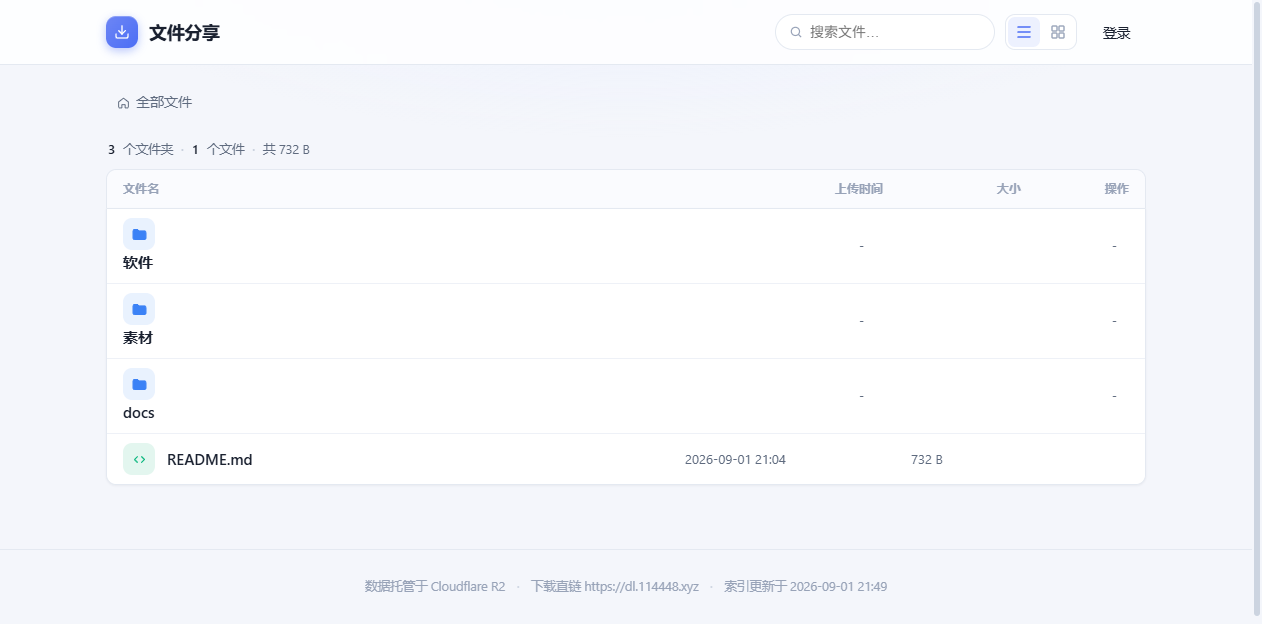
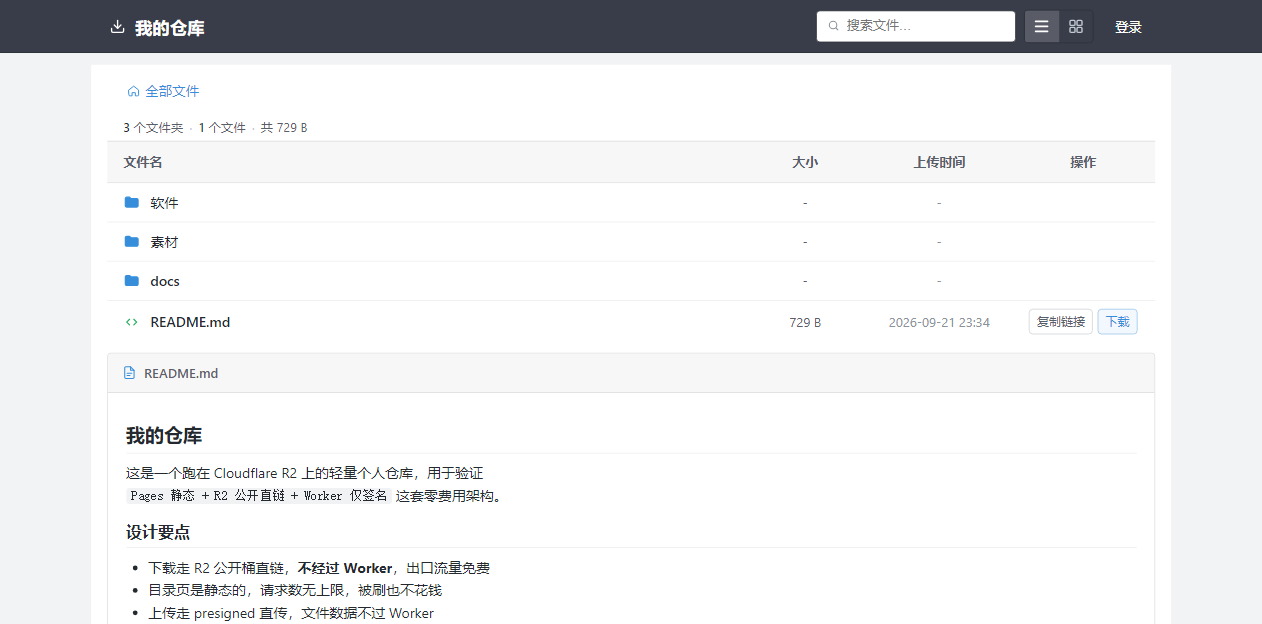
docs: 重做 5 张 README 配图（旧图与实况不符）+ 文案与计数同步
login.png 与 preview.png 原为同一张图（md5 相同）：README 声称 preview 是「README.md 预览弹层」，实际是登录后的列表视图；5 张图均为 09-01 旧 UI（白顶栏 / 「文件分享」/ 旧列序 / 旧页脚 / 3 按钮）
按当前 UI 用 Edge headless + CDP 重截，视口保持 1262 × 624
文案修正：登录后是 4 个按钮、列表视图删除按钮常显（只有网格 .cell-actions 是 hover 浮出）
测试计数同步（单元 228→263、冒烟 49→64）；README 补「无变化就别写」第三条硬约束与批大小 400 的说明

diff --git a/README.md b/README.md
@@ -11,13 +11,14 @@
 未登录列表视图（默认）：
 ![home](docs/screenshots/home.png)
 
-未登录网格视图：
+未登录网格视图（右上角切换；单元格底部操作栏 hover 时浮出）：
 ![grid](docs/screenshots/grid.png)
 
-登录后顶部多出「重建索引 / 上传 / 退出」三个按钮，文件行 hover 出现删除按钮：
+登录后顶部多出「重建索引 / 新建目录 / 上传 / 退出」四个按钮，每行出现删除按钮，
+并展开上传拖拽区（列表视图的删除按钮常显，不依赖 hover）：
 ![login](docs/screenshots/login.png)
 
-README.md 预览弹层（标题右侧「下载」按钮直链下载）：
+Markdown / 文本预览弹层（标题栏右侧「下载」按钮直链下载）：
 ![preview](docs/screenshots/preview.png)
 
 搜索无结果时的空态（与「目录为空」文案分开）：
@@ -35,6 +36,8 @@ README.md 预览弹层（标题右侧「下载」按钮直链下载）：
  └─ 上传 N 个文件 ─→ Worker /api/sign（1 次请求，批量签发）
                      → 浏览器并发 PUT 同源 /api/local-put（每文件 1 次请求，Worker 内部写 R2）
                      → Worker /api/commit（1 次请求，批量写索引）
+                     （N > 400 时前端自动按 400 一批分片，sign / commit 各调用多次；
+                       原因见下文「已知限制」）
 ```
 
 默认上传走 **Worker 代理**（`UPLOAD_VIA_WORKER = "1"`）：浏览器的 PUT 指向本 Worker
@@ -91,6 +94,12 @@ README.md 预览弹层（标题右侧「下载」按钮直链下载）：
 1. **`mutate` 必须是纯内存变换**——内部不得 `await` 任何存储操作。删对象、遍历桶这类
    一次性副作用必须先做完，再把结果带进回调。
 2. **`mutate` 必须可重放且幂等**——冲突时会拿最新索引重新执行一次，重复执行不能产生叠加效果。
+3. **无变化就别写**——回调返回 `dirty: false` 时不会发起写入。`upsertFiles` 逐字段
+   （`p` / `s` / `t` / `c`）比对，完全一致才算「无变化」：重复建同名目录、重试一次其实
+   已经成功的 `commit`，都不该白触发一次「读索引 + 写索引」，也不该平白制造一次 CAS
+   争用（多端并发时它正是 409 的来源之一）。代价是**调用方必须给出稳定的 `t`**
+   （`/api/commit` 用 `obj.uploaded`、`/api/mkdir` 用占位对象自己的 `uploaded`），
+   否则 `t` 每次都不一样，这条优化永远不生效。
 
 ---
 
@@ -324,8 +333,8 @@ npm install
 cp .dev.vars.example .dev.vars   # 按需改口令；要跑 deploy/gen-config 还要填 WORKER_DOMAIN、DL_DOMAIN
 npm run dev                      # http://127.0.0.1:8787（用模板 wrangler.toml）
 node scripts/seed.mjs            # 灌入演示数据
-TEST_PASSWORD='<.dev.vars 里的 ADMIN_PASSWORD>' node scripts/smoke.mjs   # 全流程冒烟（49 项）
-npm test                         # 单元测试（228 项，见下）
+TEST_PASSWORD='<.dev.vars 里的 ADMIN_PASSWORD>' node scripts/smoke.mjs   # 全流程冒烟（64 项，含 Range 切片）
+npm test                         # 单元测试（263 项，见下）
 npm run gen-config               # 部署前：生成 wrangler.deploy.toml（域名取自环境变量 / .dev.vars）
 npm run check                    # 部署前自检（校验生成物）
 ```
@@ -341,9 +350,9 @@ npm run check                    # 部署前自检（校验生成物）
 | --- | --- | --- |
 | `scripts/test-crypto.mjs` | SigV4 签名向量、会话 cookie 加签/验签 | 14 |
 | `scripts/test-mode.mjs` | 运行模式判定（代理/直连、上传通道）、会话密钥派生与守卫 | 25 |
-| `scripts/test-store.mjs` | 路径与 MIME 校验、索引 CAS（含冲突重试、批量幂等、递归删目录）、冲突异常类型与 409 映射契约 | 100 |
+| `scripts/test-store.mjs` | 路径与 MIME 校验、索引 CAS（含冲突重试、批量幂等、无变化不写、递归删目录）、写入口径与 409 映射契约 | 114 |
 | `scripts/test-preview.mjs` | 前端纯函数：预览分类、Markdown 渲染 | 54 |
-| `scripts/test-frontend.mjs` | 前端状态逻辑（最小 DOM 替身）+ 源码契约 + 部署配置断言 | 35 |
+| `scripts/test-frontend.mjs` | 前端状态逻辑（最小 DOM 替身）+ 源码契约（分批上限、O(N×M) 回归）+ 部署配置断言 | 56 |
 
 `TEST_PASSWORD` 不传时会用默认值 `dev123456`，与 `.dev.vars` 里的真实口令对不上，
 表现为登录 401 之后整串用例连锁失败——**跑冒烟务必显式带上它**。
@@ -406,8 +415,8 @@ npm run push:gh -- src/index.ts public/app.js   # 只同步指定文件
 | --- | --- | --- | --- |
 | GET | `/` | 否 | 渲染目录页 HTML（目录数据由前端直连 R2 拉 files.json） |
 | POST | `/api/login` / `/api/logout` | 否 | 登录 / 登出；登录失败计数超阈值返回 429 |
-| POST | `/api/sign` | 是 | 签发上传地址。`{path,size,type}` 单条，`{entries:[…]}` 批量 |
-| POST | `/api/commit` | 是 | 写入索引。`{path,type}` 单条，`{entries:[…]}` 批量；响应回传 `entries`/`missing` |
+| POST | `/api/sign` | 是 | 签发上传地址。`{path,size,type}` 单条，`{entries:[…]}` 批量，单次最多 1000 条 |
+| POST | `/api/commit` | 是 | 写入索引。`{path,type}` 单条，`{entries:[…]}` 批量，**单次最多 400 条**；响应回传 `entries`/`missing` |
 | DELETE | `/api/file` | 是 | 删除单个文件（对象 + 索引） |
 | DELETE | `/api/files` | 是 | 批量删除。`{paths:[…]}`，单次最多 1000 个 |
 | POST | `/api/mkdir` | 是 | 新建目录（写 `<path>/` 占位对象，幂等） |
@@ -450,7 +459,19 @@ rclone sync r2:r2share b2:你的桶 --progress
 ## 已知限制
 
 - 没有网页端的文件重命名 / 移动 / 打包下载（R2 无 rename，目录移动是 O(n) 操作），需要时用 rclone
-- 目录页不是严格实时：`files.json` 缓存 10 秒
+- 目录页不是严格实时：`files.json` 写入时带 `Cache-Control: public, max-age=10`
+  （`src/store.ts` 的 `INDEX_META`），**CDN 层**最多缓存 10 秒；前端拉取时另加
+  `cache: 'no-store'`，让**浏览器**不吃本地缓存。日常上传 / 删除靠前端本地增量更新
+  立即可见，只有「刷新页面重新拉整份索引」才可能读到 10 秒内的旧索引
+- **一次提交索引的批大小是 400**（`MAX_COMMIT_BATCH`）：`/api/commit` 每一条都要
+  一次 R2 `head` 校验对象真实存在，再加一次索引读 + 一次索引写，N 条就是
+  **N+2 个子请求**；而 Cloudflare 对「内部服务（R2 / KV / D1）子请求」有
+  **每请求 1000 次**的硬上限（免费与付费同，`get`/`put`/`head`/`list`/`delete` 全计入）。
+  顶格 1000 条必然超限，症状还偏偏是最难排查的那种：签名成功、PUT 成功、
+  提交整批 500，而对象其实已经写进桶——用户只看到「上传失败」。
+  前端会自动按 400 分片（`public/app.js` 的 `UPLOAD_CHUNK`），
+  所以一次拖入上千个文件仍然可用，只是会拆成多次 sign / commit 调用。
+  `/api/sign` 不碰 R2、只做 HMAC，上限仍是 1000（`MAX_SIGN_BATCH`）
 - 上传接口有登录保护，但文件本身是公开的（这是设计选择）
 - presigned PUT URL 只绑定路径和 1 小时有效期，**不绑定文件大小**：`/api/sign`
   的 size 上限校验是业务约束（`MAX_UPLOAD`，默认 95 MiB），拿到签名 URL 后实际可传更大文件。
